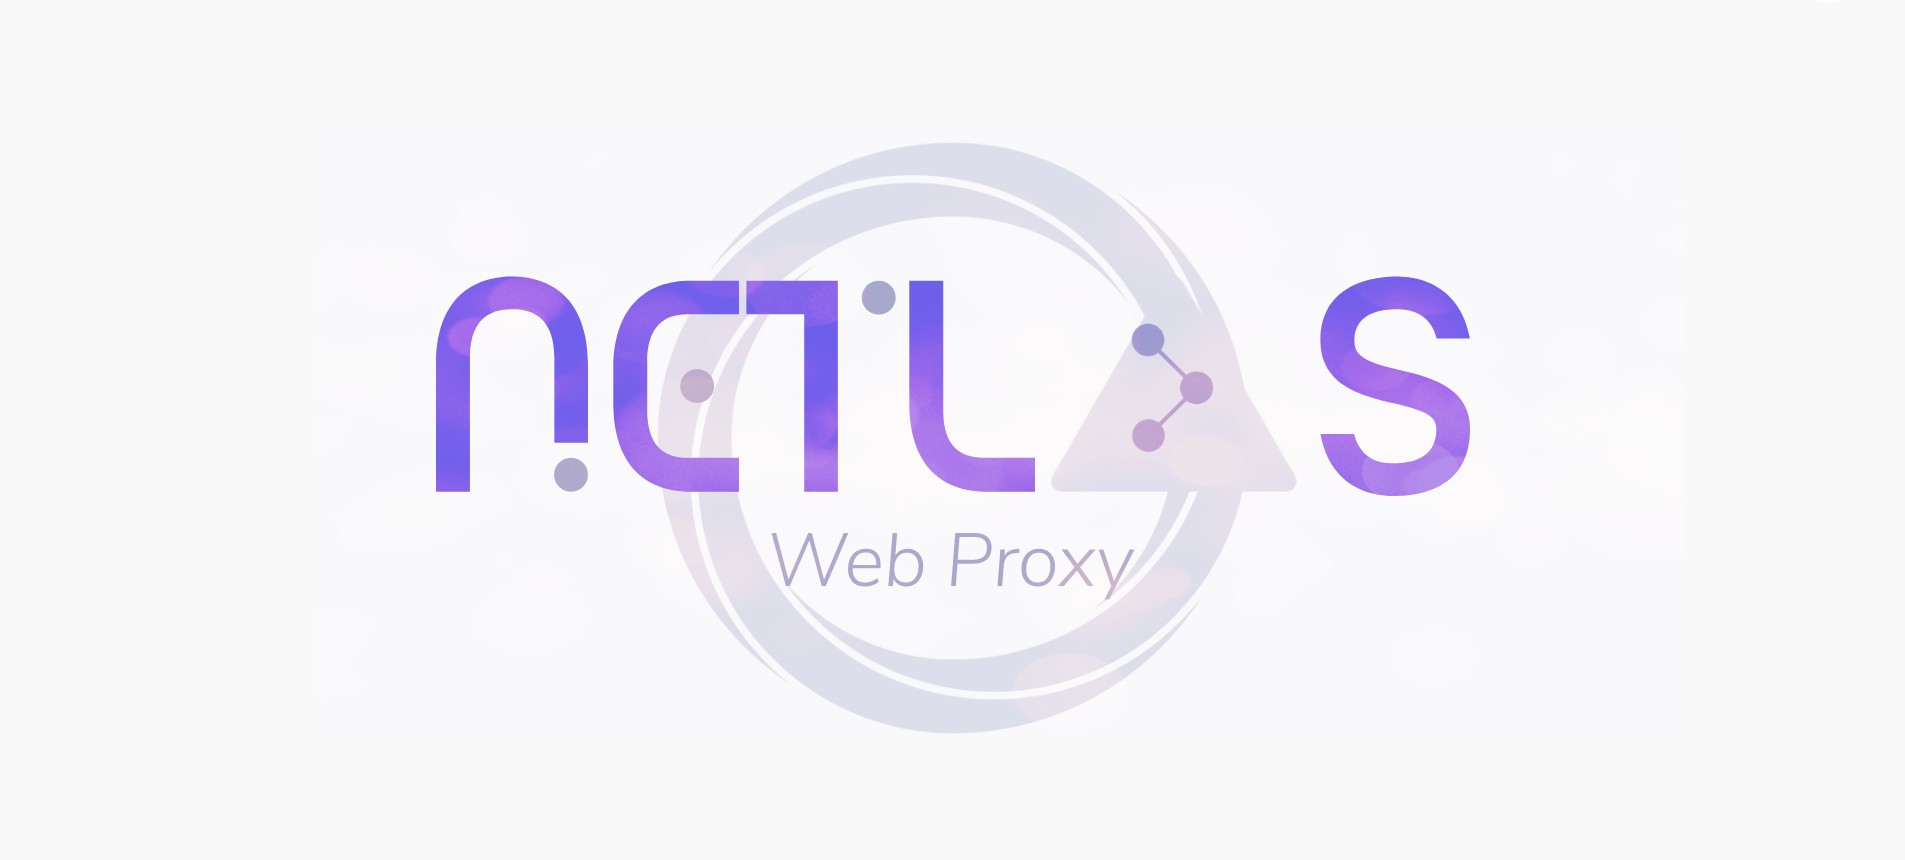
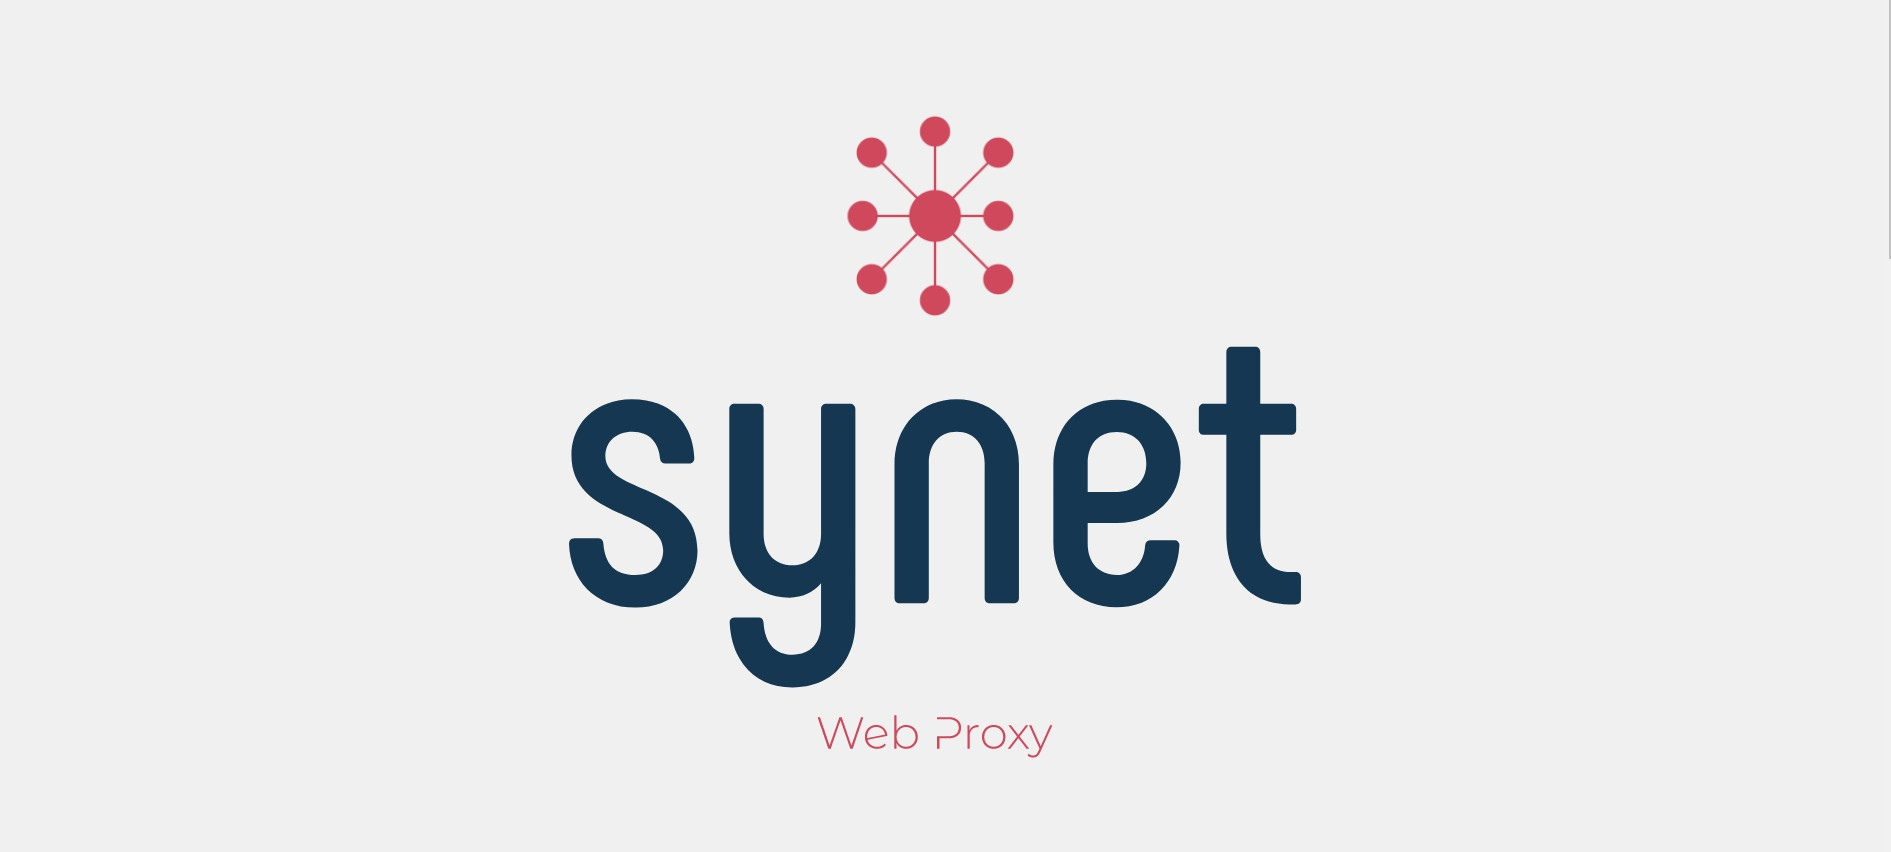
chnaged name, ugh

Changed region(s): [[0.2184, 0.1221, 0.78, 0.8239], [0.9984, 0.0, 1.0, 0.3052], [0.4368, 0.8239, 0.5616, 0.885]]

diff --git a/README.md b/README.md
@@ -26,19 +26,20 @@
 <!-- PROJECT LOGO -->
 <br />
 <p align="center">
-  <a href="https://github.com/Rubix982/Web-Proxy-Golang">
+  <a href="https://github.com/Rubix982/Synet">
     <img src="assets/img/1.jpg" alt="Logo">
   </a>
 
-  <h3 align="center">Web Proxy, Golang</h3>
+  <h2 align="center">ASP.NET | GatsbyJS</h2>  
+  <h3 align="center">Web Proxy</h3>
 
   <p align="center">
-    A web proxy, implemented in Golang
+    A web proxy, implemented in ASP.NET
     <br />
     <br />
-    <a href="https://github.com/Rubix982/Web-Proxy-Golang/issues">Report Bug</a>
+    <a href="https://github.com/Rubix982/Synet/issues">Report Bug</a>
     ·
-    <a href="https://github.com/Rubix982/Web-Proxy-Golang/issues">Request Feature</a>
+    <a href="https://github.com/Rubix982/Synet/issues">Request Feature</a>
   </p>
 </p>
 
@@ -75,7 +76,7 @@
 
 [![Product Name Screen Shot][product-screenshot]](https://example.com)
 
-Repository for CN CS307's 1st assignment for web proxies. Please see the actual project proposal as attached [here](https://github.com/Rubix982/Web-Proxy-Golang/blob/main/assets/doc/A01-CN-SP21.pdf).
+Repository for CN CS307's 1st assignment for web proxies. Please see the actual project proposal as attached [here](https://github.com/Rubix982/Synet/blob/main/assets/doc/A01-CN-SP21.pdf).
 
 The notion page for this repository can be found as the following,
 
@@ -121,12 +122,12 @@ TODO!!!!!!!
 
 Use this space to show useful examples of how a project can be used. Additional screenshots, code examples and demos work well in this space. You may also link to more resources.
 
-_For more examples, please refer to the [Documentation](https://github.com/Rubix982/Web-Proxy-Golang)_
+_For more examples, please refer to the [Documentation](https://github.com/Rubix982/Synet)_
 
 <!-- ROADMAP -->
 ## Roadmap
 
-See the [open issues](https://github.com/Rubix982/Web-Proxy-Golang/issues) for a list of proposed features (and known issues).
+See the [open issues](https://github.com/Rubix982/Synet/issues) for a list of proposed features (and known issues).
 
 <!-- CONTRIBUTING -->
 ## Contributing
@@ -142,14 +143,14 @@ Contributions are what make the open source community such an amazing place to b
 <!-- LICENSE -->
 ## License
 
-Distributed under the  Apache-2.0 License License. See [LICENSE](https://github.com/Rubix982/Web-Proxy-Golang/blob/main/LICENSE) for more information.
+Distributed under the  Apache-2.0 License License. See [LICENSE](https://github.com/Rubix982/Synet/blob/main/LICENSE) for more information.
 
 <!-- CONTACT -->
 ## Contact
 
 Your Name - [@rubix982](https://github.com/Rubix982/) - saifulislam84210@gmail.com
 
-Project Link: [https://github.com/Rubix982/Web-Proxy-Golang](https://github.com/Rubix982/Web-Proxy-Golang)
+Project Link: [https://github.com/Rubix982/Synet](https://github.com/Rubix982/Synet)
 
 <!-- ACKNOWLEDGEMENTS -->
 ## Acknowledgements
@@ -169,15 +170,15 @@ Project Link: [https://github.com/Rubix982/Web-Proxy-Golang](https://github.com/
 <!-- MARKDOWN LINKS & IMAGES -->
 <!-- https://www.markdownguide.org/basic-syntax/#reference-style-links -->
 [contributors-shield]: https://img.shields.io/github/contributors/rubix982/Web-Proxy-Golang.svg?style=for-the-badge
-[contributors-url]: https://github.com/Rubix982/Web-Proxy-Golang/graphs/contributors
+[contributors-url]: https://github.com/Rubix982/Synet/graphs/contributors
 [forks-shield]: https://img.shields.io/github/forks/Rubix982/Web-Proxy-Golang.svg?style=for-the-badge
-[forks-url]: https://github.com/Rubix982/Web-Proxy-Golang/network/members
+[forks-url]: https://github.com/Rubix982/Synet/network/members
 [stars-shield]: https://img.shields.io/github/stars/Rubix982/Web-Proxy-Golang.svg?style=for-the-badge
-[stars-url]: https://github.com/Rubix982/Web-Proxy-Golang/stargazers
+[stars-url]: https://github.com/Rubix982/Synet/stargazers
 [issues-shield]: https://img.shields.io/github/issues/Rubix982/Web-Proxy-Golang.svg?style=for-the-badge
-[issues-url]: https://github.com/Rubix982/Web-Proxy-Golang/issues
+[issues-url]: https://github.com/Rubix982/Synet/issues
 [license-shield]: https://img.shields.io/github/license/Rubix982/Web-Proxy-Golang.svg?style=for-the-badge
-[license-url]: https://github.com/Rubix982/Web-Proxy-Golang/blob/master/LICENSE.txt
+[license-url]: https://github.com/Rubix982/Synet/blob/master/LICENSE.txt
 [linkedin-shield]: https://img.shields.io/badge/-LinkedIn-black.svg?style=for-the-badge&logo=linkedin&colorB=555
 [linkedin-url]: https://www.linkedin.com/in/saif-ul-islam-93786b187/
 [product-screenshot]: assets/img/screenshot.png
